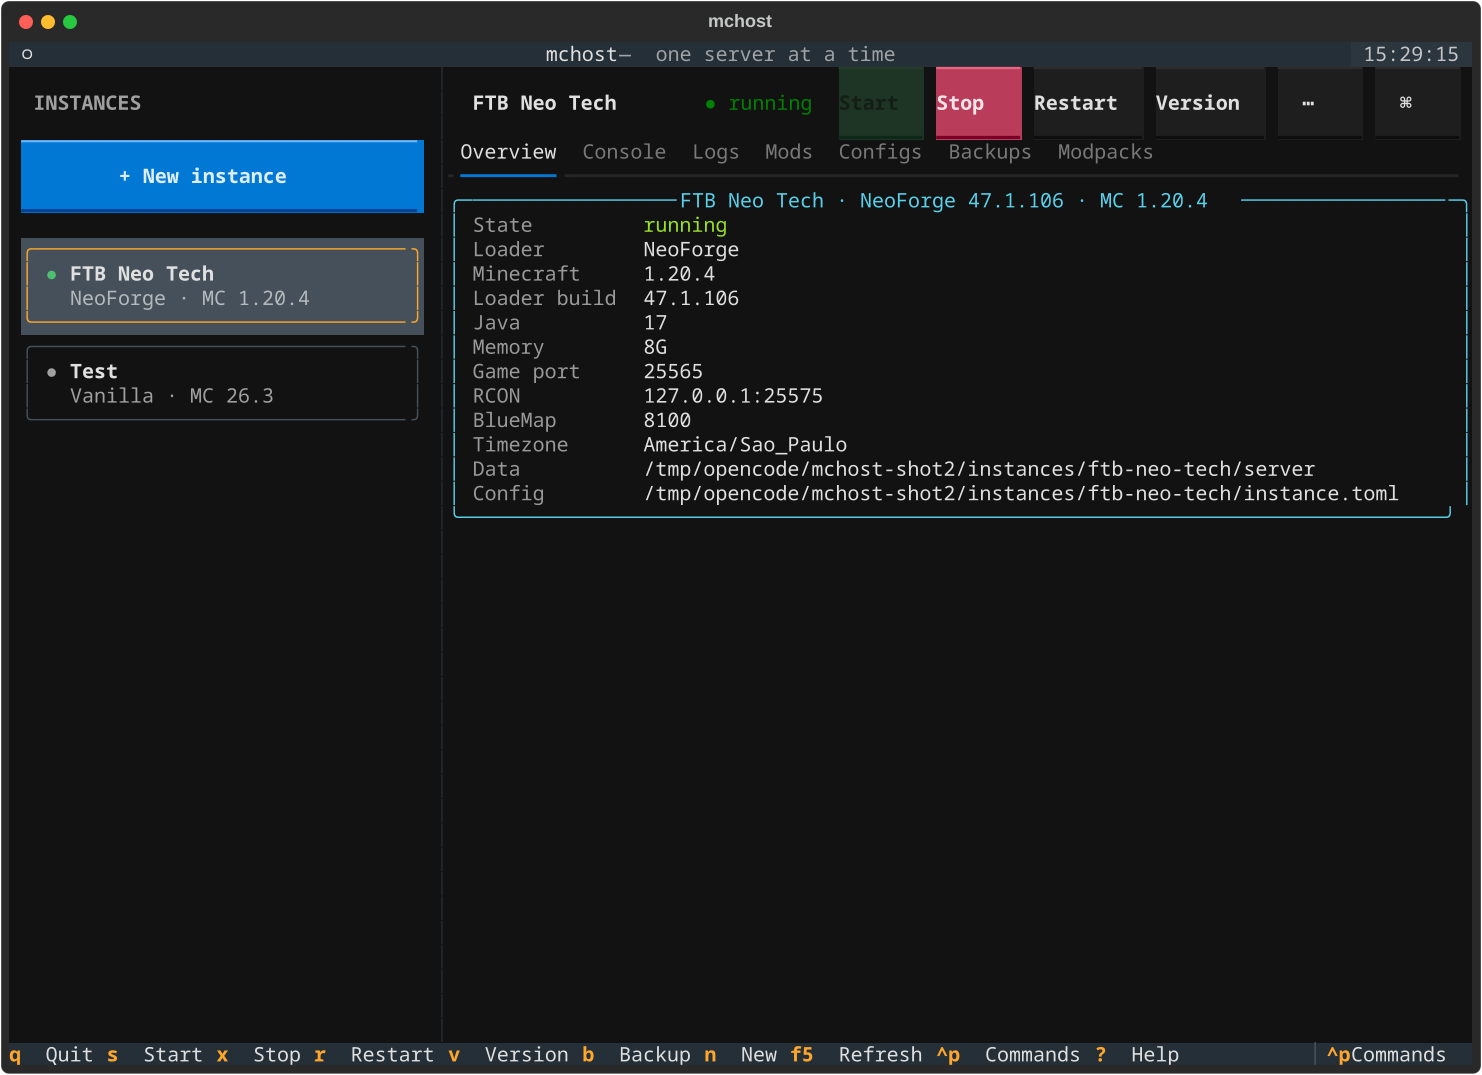
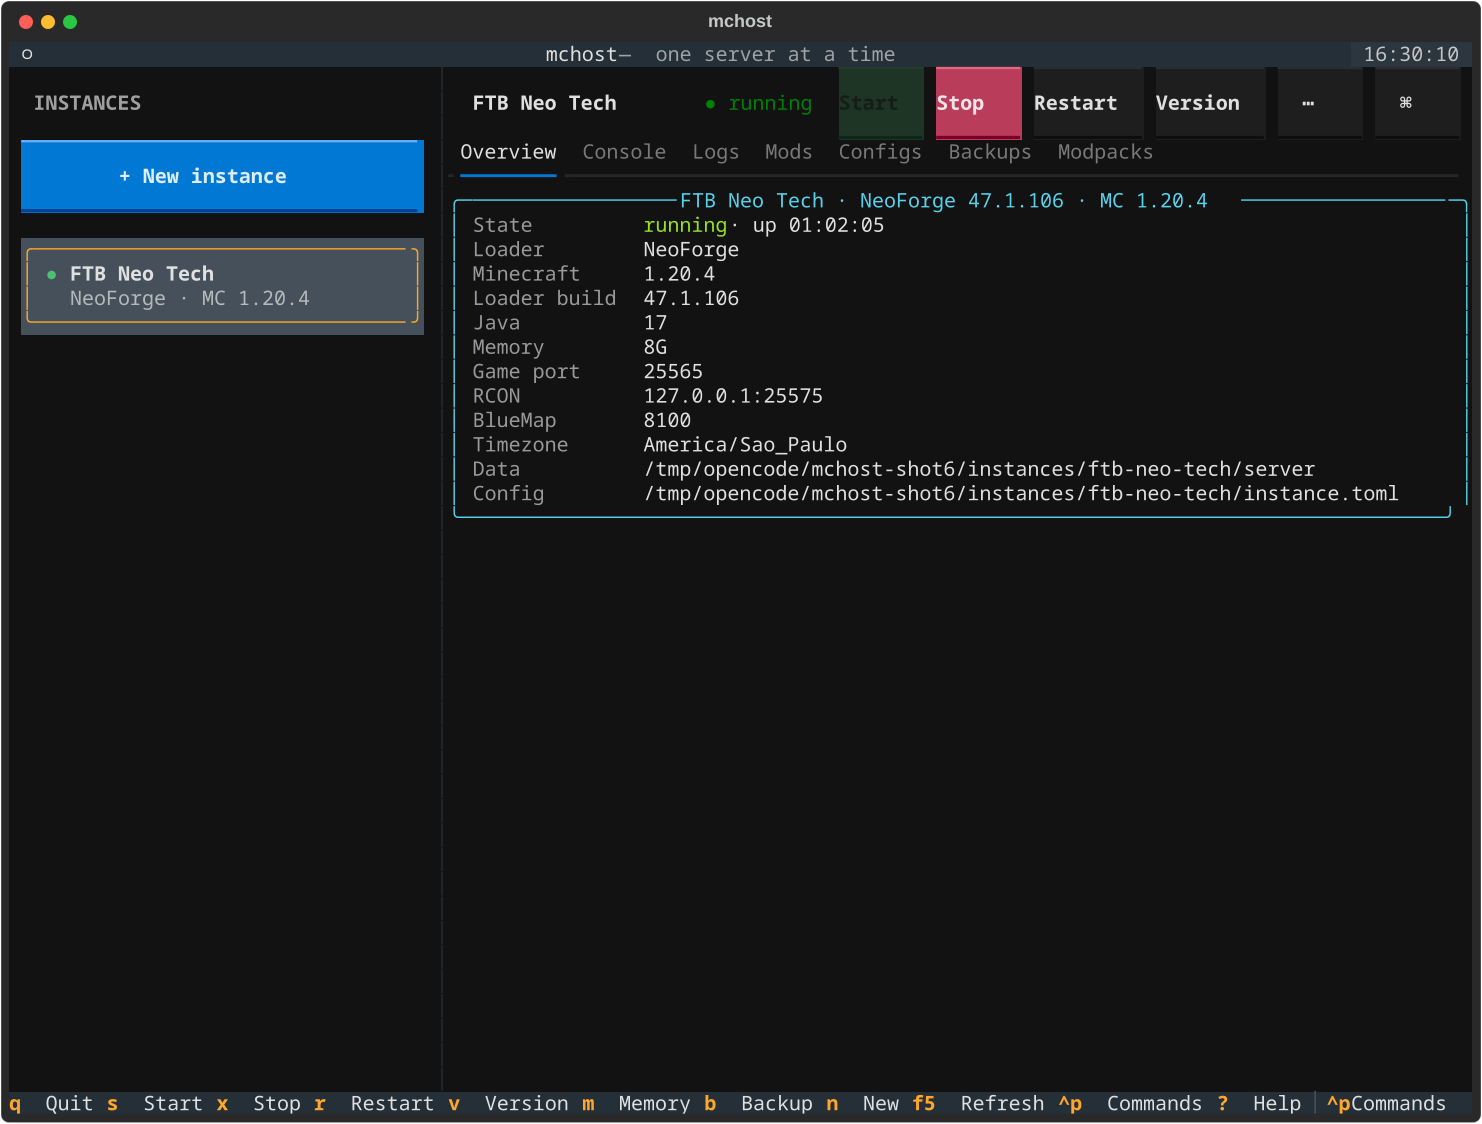
Add live uptime and clean up placeholder UI copy
- parse container StartedAt from Docker/Podman inspect
- show a ticking uptime in the Overview State row while running
- hide uptime when the server stops and reset it on restart
- replace stale "arrives in phase" copy in the empty state, migration
  warning, and modpack version-picker message
- refresh the dashboard screenshot and add uptime/format tests

diff --git a/src/mchost/tui/app.py b/src/mchost/tui/app.py
@@ -5,7 +5,7 @@ from __future__ import annotations
 import os
 import subprocess
 import threading
-from datetime import datetime
+from datetime import datetime, timezone
 from pathlib import Path
 from typing import Callable
 
@@ -85,6 +85,20 @@ def format_size(size: int) -> str:
 
 def short_time(value: str) -> str:
     return value.replace("T", " ")[:16] if value else "—"
+
+
+def format_uptime(started: datetime, now: datetime | None = None) -> str:
+    """Format a start time as a compact, ticking uptime clock."""
+    if started.tzinfo is None:
+        started = started.replace(tzinfo=timezone.utc)
+    current = now or datetime.now(timezone.utc)
+    seconds = max(0, int((current - started).total_seconds()))
+    days, remainder = divmod(seconds, 86400)
+    hours, remainder = divmod(remainder, 3600)
+    minutes, seconds = divmod(remainder, 60)
+    if days:
+        return f"{days}d {hours:02d}:{minutes:02d}:{seconds:02d}"
+    return f"{hours:02d}:{minutes:02d}:{seconds:02d}"
 
 
 def scan_files(
@@ -201,6 +215,7 @@ class MchostApp(App[None]):
         self._stream_slug: str | None = None
         self._log_history: list[str] = []
         self._modpack_link: str | None = None
+        self._started_at: dict[str, datetime] = {}
 
     # -- layout ------------------------------------------------------------
 
@@ -365,6 +380,7 @@ class MchostApp(App[None]):
         else:
             self._detect_engine()
         self.set_interval(4.0, self._poll_states)
+        self.set_interval(1.0, self._tick_uptime)
 
     def on_unmount(self) -> None:
         self._stop_log_stream()
@@ -404,7 +420,7 @@ class MchostApp(App[None]):
         if not self.instances:
             await container.mount(
                 Static(
-                    "No instances yet.\n\n[dim]Create one with:[/]\n"
+                    "No instances yet.\n\n[dim]Click + New instance, or run:[/]\n"
                     "[bold]mchost new MyServer[/]",
                     classes="empty",
                 )
@@ -479,23 +495,44 @@ class MchostApp(App[None]):
         if not self.engine:
             return
         states: dict[str, str] = {}
+        started: dict[str, datetime] = {}
         for instance in self.instances:
             try:
                 states[instance.slug] = self.engine.state(instance.slug)
             except MchostError:
                 states[instance.slug] = "unknown"
-        self.call_from_thread(self._apply_states, states)
+                continue
+            if states[instance.slug] in ("running", "restarting"):
+                try:
+                    value = self.engine.started_at(instance.slug)
+                except (MchostError, OSError):
+                    value = None
+                if value is not None:
+                    started[instance.slug] = value
+        self.call_from_thread(self._apply_states, states, started)
 
-    def _apply_states(self, states: dict[str, str]) -> None:
+    def _apply_states(
+        self, states: dict[str, str], started: dict[str, datetime] | None = None
+    ) -> None:
         changed = False
         for slug, state in states.items():
             previous = self.states.get(slug)
             self.states[slug] = state
+            if state in ("running", "restarting"):
+                if started and slug in started:
+                    self._started_at[slug] = started[slug]
+            else:
+                self._started_at.pop(slug, None)
             row = self.rows.get(slug)
             if row:
                 row.set_state(state)
             if previous != state:
                 changed = True
+
+        for stale in set(self.states) - set(states):
+            self.states.pop(stale, None)
+        for stale in set(self._started_at) - set(states):
+            self._started_at.pop(stale, None)
 
         instance = self._selected()
         if instance:
@@ -503,6 +540,16 @@ class MchostApp(App[None]):
         self._set_buttons()
         if changed:
             self._sync_log_stream()
+
+    def _tick_uptime(self) -> None:
+        instance = self._selected()
+        if not instance:
+            return
+        if self.states.get(instance.slug) not in ("running", "restarting"):
+            return
+        if instance.slug not in self._started_at:
+            return
+        self._update_detail(instance)
 
     def _sync_log_stream(self) -> None:
         if not self.selected_slug:
@@ -519,6 +566,12 @@ class MchostApp(App[None]):
 
     # -- rendering ---------------------------------------------------------
 
+    def _uptime_label(self, instance: Instance) -> str | None:
+        if self.states.get(instance.slug) not in ("running", "restarting"):
+            return None
+        started = self._started_at.get(instance.slug)
+        return format_uptime(started) if started else None
+
     def _update_detail(self, instance: Instance) -> None:
         state = self.states.get(instance.slug, "unknown")
         color = STATE_COLORS.get(state, "dim")
@@ -531,10 +584,14 @@ class MchostApp(App[None]):
     def _overview(self, instance: Instance) -> Panel:
         state = self.states.get(instance.slug, "unknown")
         color = STATE_COLORS.get(state, "dim")
+        uptime = self._uptime_label(instance)
         table = Table.grid(padding=(0, 2))
         table.add_column(style="dim", no_wrap=True)
         table.add_column()
-        table.add_row("State", f"[{color}]{state}[/]")
+        state_text = f"[{color}]{state}[/]"
+        if uptime:
+            state_text += f" · up {uptime}"
+        table.add_row("State", state_text)
         table.add_row("Loader", LOADER_LABELS.get(instance.loader, instance.loader))
         table.add_row("Minecraft", instance.mc_version)
         table.add_row(
@@ -572,9 +629,8 @@ class MchostApp(App[None]):
         self.query_one("#overview", Static).update(
             Panel(
                 "No instances yet.\n\n"
-                "Create one from the shell:\n"
-                "[bold]mchost new MyServer --loader fabric --mc-version 1.20.4[/]\n\n"
-                "The in-app wizard arrives in phase 3.",
+                "Click [bold]+ New instance[/] in the sidebar, or run:\n"
+                "[bold]mchost new MyServer --loader fabric --mc-version 1.20.4[/]",
                 title="Welcome",
                 border_style="cyan",
             )
@@ -1431,7 +1487,7 @@ class MchostApp(App[None]):
         if instance.kind == "modpack":
             self.notify(
                 "Modpack versions are managed by their pack; "
-                "use the Modpacks tab (phase 5).",
+                "open the Modpacks tab to check for updates.",
                 timeout=7,
             )
             return

diff --git a/tests/test_tui.py b/tests/test_tui.py
@@ -1,6 +1,7 @@
 from __future__ import annotations
 
 import asyncio
+from datetime import datetime, timedelta, timezone
 
 from textual.widgets import Button, DataTable, Input, Static, TabbedContent
 
@@ -38,6 +39,9 @@ class FakeEngine:
 
     def is_running(self, slug: str) -> bool:
         return self.state(slug) == "running"
+
+    def started_at(self, slug: str):
+        return datetime.now(timezone.utc) - timedelta(seconds=65)
 
     def running_slugs(self) -> list[str]:
         return [slug for slug, state in self.states.items() if state == "running"]
@@ -293,6 +297,60 @@ def test_backups_tab_creates_and_restores(tmp_path):
             await pilot.click("#dialog-confirm")
             await pilot.pause(0.8)
             assert (server / "world" / "level.dat").read_text(encoding="utf-8") == "original"
+
+    asyncio.run(run())
+
+
+def test_format_uptime():
+    from mchost.tui.app import format_uptime
+
+    start = datetime(2026, 1, 1, tzinfo=timezone.utc)
+    assert format_uptime(start, start + timedelta(seconds=5)) == "00:00:05"
+    assert (
+        format_uptime(start, start + timedelta(hours=1, minutes=2, seconds=3))
+        == "01:02:03"
+    )
+    assert (
+        format_uptime(start, start + timedelta(days=1, seconds=1))
+        == "1d 00:00:01"
+    )
+
+
+def test_overview_shows_uptime_only_while_running(tmp_path):
+    import io
+
+    from rich.console import Console
+
+    app, fake = make_app(tmp_path)
+
+    def overview_text():
+        instance = app._selected()
+        assert instance is not None
+        buffer = io.StringIO()
+        console = Console(
+            file=buffer, width=120, record=True, force_terminal=False
+        )
+        console.print(app._overview(instance))
+        return buffer.getvalue()
+
+    async def run():
+        async with app.run_test(size=(120, 44)) as pilot:
+            await pilot.pause(0.2)
+            assert app._uptime_label(app._selected()) is None
+            assert "up " not in overview_text()
+
+            fake.states["demo"] = "running"
+            app._poll_states()
+            await pilot.pause(0.4)
+            assert app._uptime_label(app._selected()) is not None
+            assert "up " in overview_text()
+            assert "demo" in app._started_at
+
+            fake.states["demo"] = "exited"
+            app._poll_states()
+            await pilot.pause(0.4)
+            assert app._uptime_label(app._selected()) is None
+            assert "up " not in overview_text()
 
     asyncio.run(run())
 

diff --git a/src/mchost/engine.py b/src/mchost/engine.py
@@ -8,9 +8,11 @@ from __future__ import annotations
 
 import json
 import os
+import re
 import shutil
 import subprocess
 from dataclasses import dataclass
+from datetime import datetime, timezone
 from pathlib import Path
 from typing import Sequence
 
@@ -194,6 +196,32 @@ class Engine:
         # A restarting container is still "in use": its ports are held, and
         # the UI should keep tailing its logs.
         return self.state(slug).lower() in ("running", "restarting")
+
+    def started_at(self, slug: str) -> datetime | None:
+        """Return the container's last start time, if it is available."""
+        result = self._run(
+            [
+                self.info.binary,
+                "inspect",
+                "--format",
+                "{{.State.StartedAt}}",
+                self.container_name(slug),
+            ],
+            check=False,
+        )
+        text = (result.stdout or "").strip()
+        if result.returncode != 0 or not text or text.startswith("0001-01-01"):
+            return None
+        text = text.replace("Z", "+00:00")
+        # Docker timestamps can have nanoseconds; Python accepts microseconds.
+        text = re.sub(r"(\.\d{6})\d+", r"\1", text)
+        try:
+            parsed = datetime.fromisoformat(text)
+        except ValueError:
+            return None
+        if parsed.tzinfo is None:
+            parsed = parsed.replace(tzinfo=timezone.utc)
+        return parsed
 
     def running_slugs(self) -> list[str]:
         return [slug for slug in instance_slugs(self.layout) if self.is_running(slug)]

diff --git a/tests/test_engine.py b/tests/test_engine.py
@@ -73,3 +73,37 @@ def test_state_missing(tmp_path, monkeypatch):
         lambda *args, **kwargs: subprocess.CompletedProcess([], 0, "", ""),
     )
     assert engine.state("my-server") == "missing"
+
+
+def test_started_at_parses_docker_timestamp(tmp_path, monkeypatch):
+    from datetime import datetime, timezone
+
+    engine = make_engine(tmp_path)
+    payload = "2026-01-01T12:00:00.123456789Z\n"
+    monkeypatch.setattr(
+        engine,
+        "_run",
+        lambda *args, **kwargs: subprocess.CompletedProcess([], 0, payload, ""),
+    )
+    value = engine.started_at("my-server")
+    assert value == datetime(
+        2026, 1, 1, 12, 0, 0, 123456, tzinfo=timezone.utc
+    )
+
+
+def test_started_at_missing_or_invalid(tmp_path, monkeypatch):
+    engine = make_engine(tmp_path)
+    for payload, returncode in (
+        ("", 0),
+        ("0001-01-01T00:00:00Z\n", 0),
+        ("not-a-date\n", 0),
+        ("2026-01-01T12:00:00Z\n", 1),
+    ):
+        monkeypatch.setattr(
+            engine,
+            "_run",
+            lambda *args, _p=payload, _r=returncode, **kwargs: subprocess.CompletedProcess(
+                [], _r, _p, ""
+            ),
+        )
+        assert engine.started_at("my-server") is None

diff --git a/src/mchost/migrate.py b/src/mchost/migrate.py
@@ -126,8 +126,9 @@ def migrate(layout: Layout) -> MigrationResult:
 
     if instance.loader_version is None and loader not in ("vanilla", "paper"):
         warnings.append(
-            f"{loader} loader version is not pinned yet; choose one before the "
-            "first start (the version picker arrives in phase 3)"
+            f"{loader} loader version is not pinned yet; choose one from the "
+            "dashboard's Version button or with 'mchost versions' before the "
+            "first start"
         )
     if mc_version == "LATEST":
         warnings.append("Minecraft version is not pinned; the server will use the latest")

diff --git a/README.md b/README.md
@@ -18,6 +18,7 @@ dashboard does is also available as a scriptable command.
 - 🧭 In-app MC × loader picker with latest/recommended markers
 - 📦 Multiple instances, one running at a time (stable ports, no surprises)
 - 🖥 Mouse-first terminal dashboard with sidebar, tabs, live logs, and RCON console
+- ⏱ Live uptime clock in the Overview while an instance is running
 - 📂 Mods and Configs tabs: enable/disable/delete mods and edit configs in-app
 - 💾 World and full backups with RCON-safe snapshots, retention, and restore
 - 🧩 Modrinth modpack browser with server-pack preference and SHA-512 pinning
@@ -148,6 +149,8 @@ In the dashboard:
 - **Modpacks**: browse Modrinth, install a pack, check for updates, update in
   place, copy the pack's Modrinth link, or install a local CurseForge server
   pack you downloaded.
+- The **Overview** shows status, loader/MC, ports, memory, and a live uptime
+  clock while the server is running.
 - **Memory**: right-click a row → **Change memory**, or press `m`. Works for
   hand-built servers and prebuilt modpacks; restart to apply.
 - **Delete**: right-click an instance and choose **Delete instance**. The
@@ -484,6 +487,9 @@ The suite covers config/compose generation, migration, version and Modrinth
 resolution, backup archives and restores, local CurseForge pack inspection,
 instance deletion, and Textual flows using a fake engine. Most tests do not
 need Docker or network access.
+
+For a guided reading order through the codebase, see
+[LEARNING.md](LEARNING.md).
 
 ### Good to know
 
